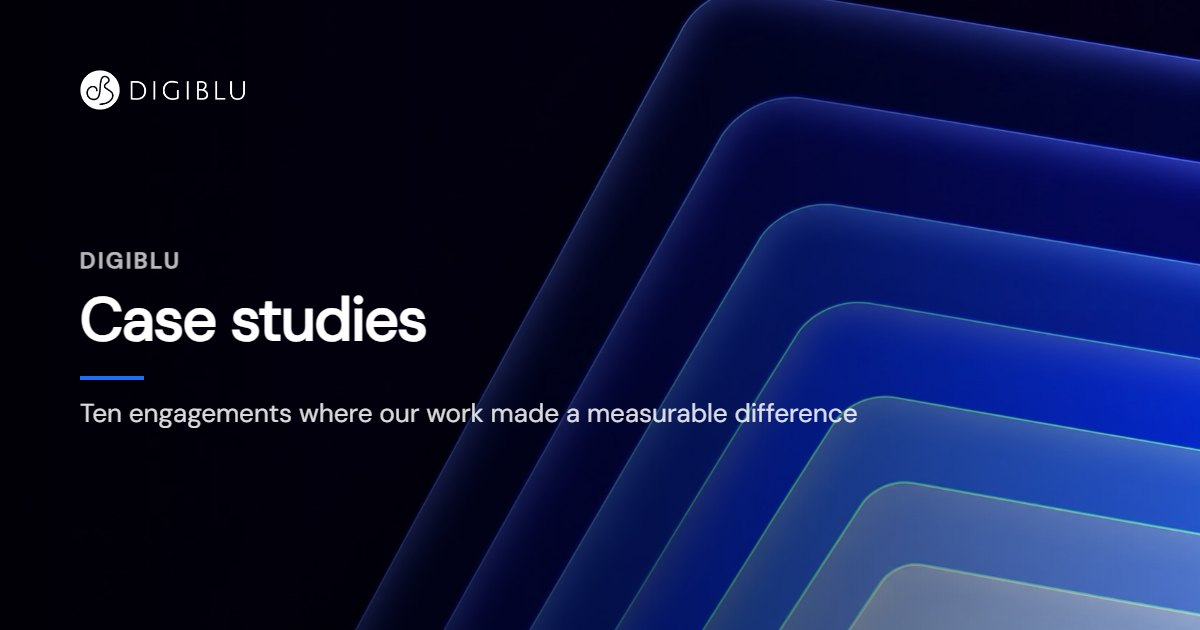
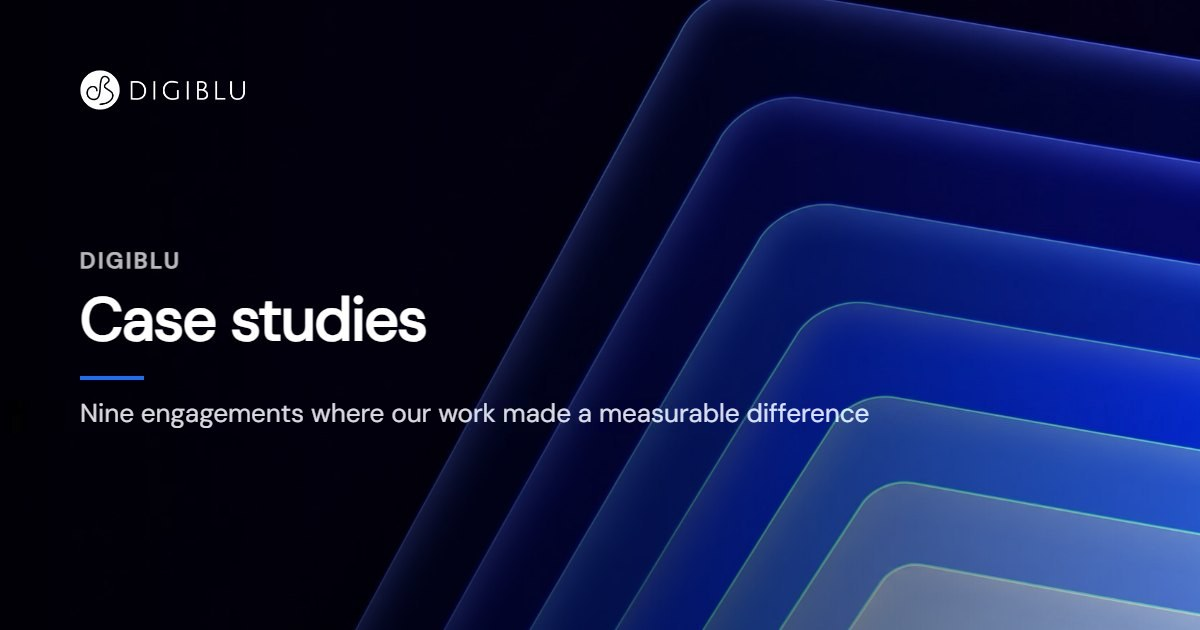
Remove the quote-processing case study; AssuranceSD featured third again
The client has not approved the case study, so its markdown, photograph
and share card are deleted (they stay in git history if it is approved).
AssuranceSD takes back the third home-page slot with the card it had before
10 Sep 2026. The case studies page's description and share card say "Nine",
and the description's sector list no longer includes manufacturing, which
only that case study covered. The share card was patched in place: the old
subtitle's background rebuilt from the per-case-study cards (same artwork),
the new line drawn in DM Sans 26px at the original's position and colour.

Tests: nine case studies, AssuranceSD third and featured, the removed key
absent; page tests pass over nine case-study pages.

Changed region(s): [[0.0617, 0.6333, 0.74, 0.6937]]

diff --git a/components/sections/CaseStudies.tsx b/components/sections/CaseStudies.tsx
@@ -14,7 +14,7 @@ export default function CaseStudies() {
           <h2>Where our work<br />has made a difference</h2>
 
           {/* Real client engagements, sourced from digiblu.com/case-studies. The
-               three shown here are the featured set; the full ten are on
+               three shown here are the featured set; the full list is on
                /case-studies, which "View all" links to. */}
 
           <div className="case-list">
@@ -63,18 +63,18 @@ export default function CaseStudies() {
             <article className="case">
               <div className="case-grid">
                 <div>
-                <span className="case-client">Mobility equipment manufacturer</span>
-                <h3 className="case-headline">Automating supplier quote processing with Generative AI</h3>
+                <span className="case-client">AssuranceSD</span>
+                <h3 className="case-headline">Transforming FMS services with digital onboarding</h3>
                 </div>
                 <div>
-                  <p className="case-body">Supplier quotations arrive in every format, and each one had to be read, matched against the original specification and resolved by hand. We combined Generative AI, document processing and workflow automation so routine cases resolve themselves within defined business rules, with exceptions routed to a purpose-built reconciliation app for human review.</p>
+                  <p className="case-body">Applying for government funding ran on paper, and it was hardest on the elderly and disabled applicants it exists to help. We built a secure web application with Jotform forms and e-signatures, so applications are completed and signed online with fewer errors and faster approvals.</p>
                   <div className="case-tags">
-                    <span className="case-tag">AI-powered quote processing</span>
-                    <span className="case-tag">End-to-end automation</span>
-                    <span className="case-tag">Human-in-the-loop exceptions</span>
+                    <span className="case-tag">Paper-free applications</span>
+                    <span className="case-tag">Fewer errors and resubmissions</span>
+                    <span className="case-tag">Multi-state US coverage</span>
                   </div>
-                  <a href="/case-studies/quote-processing" className="case-read-more">
-                    Read more<span className="sr-only">: automating supplier quote processing with Generative AI</span>
+                  <a href="/case-studies/assurancesd" className="case-read-more">
+                    Read more<span className="sr-only">: transforming FMS services with digital onboarding</span>
                     <svg viewBox="0 0 24 24" fill="none" aria-hidden="true" xmlns="http://www.w3.org/2000/svg"><path d="M5 12h14m0 0-6-6m6 6-6 6" stroke="currentColor" strokeWidth="2" strokeLinecap="round" strokeLinejoin="round"/></svg>
                   </a>
                 </div>

diff --git a/app/case-studies/page.tsx b/app/case-studies/page.tsx
@@ -13,7 +13,7 @@ import PageBehaviours from "@/components/PageBehaviours";
 // removed on 18 Sep 2026.
 const TITLE = "Case Studies | DigiBlu";
 const DESCRIPTION =
-  "Ten client engagements where DigiBlu's work made a measurable difference, across energy, healthcare, travel, manufacturing, finance and the public sector.";
+  "Nine client engagements where DigiBlu's work made a measurable difference, across energy, healthcare, travel, education, finance and the public sector.";
 const URL = `${SITE_ORIGIN}/case-studies`;
 const OG = "/assets/og/case-studies.jpg";
 

diff --git a/docs/notes/sections.md b/docs/notes/sections.md
@@ -121,6 +121,7 @@ Every section of the home page, top to bottom, and the dialogs: how each behaves
    - **On a phone the close X is a header row, not a float.** At or below 640px the panel is a column and the reading pane is its own scroller, so the absolutely positioned X (a child of the panel, not the pane) stayed put while the photograph, eyebrow pill and stat boxes scrolled under it (reported 2 Sep 2026). It is now in flow above the pane, right-aligned, the panel is `overflow: hidden` and the pane scrolls beneath it - the contact modal's pattern, including the `min-height: 0` without which the pane grows the panel instead of scrolling. Applied to the service dialog too, which shares the structure. Above 640px the pane's 52px gutter keeps the X clear, so desktop is untouched.
    - **Reader layout, not index + detail.** On request ("all articles should be left side of this screen and read full article on the right, apply same logic throughout i.e. case studies") the separate index popup (`#caseIndexModal`) was removed and the detail dialog became a two-pane reader: `.reader-side` (330px, every engagement as a `.case-index-item` row, the one being read on brand blue via `.is-active` + `aria-current`) beside the existing `.case-modal-body`. `.modal-panel` was already a flex row, so the two columns each scroll independently inside its max-height; `.modal-panel.reader-panel` raises the max-width to 1140px (doubled selector because `.case-modal-panel`/`.service-panel` set their own at equal specificity, later in the file). Picking a row calls `select(key)` - populate in place, reset the reading pane's scroll, and nudge the sidebar only if the row is out of view, so clicking a row near the bottom does not yank the list to the top. **Below 900px** the sidebar is `display: none` and the footer's "All case studies" button (`.case-back-btn.reader-toggle`, hidden on desktop) adds `.show-list` to the panel, which swaps the reading pane out for the list; picking a row swaps back. "View all" opens the reader on the last-read entry (first, before any) with `.show-list` set, so on mobile it lands on the list. Verified at 1829px and 375px in both directions, plus ctrl-click still navigating.
    - **A tenth case study, "Building a strategic partnership for AI transformation" for Safari Destinations, was added on 10 Sep 2026** (key `safari-destinations`, sector Travel & Tourism, service Artificial Intelligence) from copy DigiBlu supplied, **taking AssuranceSD's featured slot** (featured 2; AssuranceSD stays in the reader at order 3) and **second in the reader** (order 2), both on request. Same reformatting as the ninth: one paragraph per section condensed from the supplied multi-paragraph Background / Problem / Solution / Outcome, the title recast as a gerund ("A Strategic Partnership for AI Transformation" in the brief), the three "big stats" phrases split into pill value + label, three card tags. **The quote is an explicit placeholder** - text "[Client quote to follow]", cite "[Client name], [Client role] - Safari Destinations" - because the brief marks it `[INSERT CLIENT QUOTE]`; it renders in the reader and on the page as written until DigiBlu supplies it. The client is named (it is in the client logo strip too). **Photograph: Pexels 36048580**, an acacia tree on the Serengeti plains under a blue sky, viewed on its Pexels page for signage before it was proposed, chosen by DigiBlu over a herd of elephants (9185426), fetched through the same `?w=1600&h=600&fit=crop` parameters as the rest (146KB).
+   - **The quote-processing case study was removed on 23 Sep 2026**, as it had not been approved by the client: its markdown, photograph and share card were deleted, and AssuranceSD went back into featured slot 3 with the card it had before 10 Sep 2026. The case studies page's description and share card say "Nine" now; the home page's count comes from the content. The entry below is the history.
    - **A ninth case study, "Automating supplier quote processing with Generative AI", was added on 10 Sep 2026** (key `quote-processing`, client "Mobility equipment manufacturer", sector Healthcare, service Artificial Intelligence - **an earlier label lasted an hour and was changed because its wording hinted at the client's name; the user asked for "mobility manufacturer or something like that". Healthcare rather than Manufacturing as the sector so the eyebrow does not read "manufacturer · manufacturing"**) from copy DigiBlu supplied, **and it took Cedar Creek Church's featured slot** (featured 3; Cedar Creek stays in the reader at order 4, the new one at order 3). The client is **anonymised at DigiBlu's request** the way the healthcare workforce provider and the US city agency are - the key and the URL carry no client name, and **nothing in this repository names it, because the repository is public** (the real name was scrubbed from these notes on 21 Sep 2026; do not add it back, here or in a commit message). Reformatted to the set's shape: one paragraph per section, condensed from the supplied multi-paragraph sections keeping DigiBlu's facts and phrasing (the Cedar Creek precedent), the supplied title "AI-Powered Quote Processing Automation" recast as a gerund sentence-case headline like the other eight, the three supplied "big stats" (phrases, not numbers) split into pill value + label ("AI-powered / Quote processing", "End-to-end / Quote receipt to resolution", "Human-in-the-loop / Exception management"), and three card tags on the home page. **The quote is the "e.g." placeholder from the brief**, attributed as supplied to Tim Sunley, Client Engagement Lead, DigiBlu, and marked `[INSERT QUOTE]` in the brief - it stays until DigiBlu confirms or replaces it. **Photograph: Pexels 36006588** (the front of a large modern warehouse with closed doors, grey cladding, no lettering), chosen by DigiBlu on 10 Sep 2026 after asking for "a manufacturing unit or building", fetched through the same `?w=1600&h=600&fit=crop` parameters as the other eight (66KB) straight into `public/assets/case-studies/`. **The first choice, Pexels 4061583, was downloaded and dropped the same hour**: its alt text said "low rise industrial building with blue wall" and the building turned out to carry a real fabricator's sign across its front - the alt text is not a branding check, so **view a candidate before proposing it** (the Pexels photo page in the Browser pane shows it without downloading anything). The share card exists (`public/assets/og/case-studies/quote-processing.jpg`, built as the others). The overview keeps the brief's own words, "a large national manufacturer and provider of mobility solutions".
    - **First National Bank was replaced by Cedar Creek Church on 8 Sep 2026** (key `cedar-creek`, Faith & Community, Digital Solutions: six Jotform workflows in three weeks), on request, from copy DigiBlu supplied. It went in verbatim first (four multi-paragraph sections) and was **condensed the same day on request** ("seems long in comparison") to one paragraph per section like the other seven, keeping DigiBlu's own facts and phrasing; the full text is in git history. The quote is a contiguous excerpt - the first three sentences of the supplied quote - not a paraphrase. `addSection()` and the generator still split a body on a literal `\n` into one `<p>` each, added for the verbatim version; nothing uses it today, but a future multi-paragraph entry can. The FNB static page, photo and share card were deleted; the sidebar still counts eight.
    - **The stat pills have no ring since 10 Sep 2026** ("remove the outline, apply throughout the case studies section"): the faint white 1px border, a rim for the flat-blue version, read as an outline on the sweep. `.case-stat` is its fill alone, in the reader and on every case-study page. The home page's `.case-tag` hairline chips and the "View all" ghost button keep their borders - they are outlines by design, not rims - unless asked.

diff --git a/CLAUDE.md b/CLAUDE.md
@@ -31,7 +31,7 @@ Browser pane launch configs (`.claude/launch.json`): `digiblu-next` (`next dev`,
 |---|---|
 | `app/` | Routes: home, `/services`, `/team`, `/accreditations`, `/case-studies` and `/case-studies/[key]`, `/legal/[slug]`, `/contact`, `/api/contact` (the one dynamic route), `not-found`, `sitemap`, `robots`. `app/globals.css` is the whole stylesheet. |
 | `components/` | Server components for the markup (`sections/`, footer, page chrome, the contact form's body); `behaviours/*.jsx` are the ported scripts, mounted by `HomeBehaviours.tsx` and `PageBehaviours.tsx`. |
-| `content/` | **The source of truth for copy**: `case-studies/` (10), `services/` (6), `legal/` (6), `team/` (8), `accreditations/` (6), `lattice.json` (the About figure). |
+| `content/` | **The source of truth for copy**: `case-studies/` (9), `services/` (6), `legal/` (6), `team/` (8), `accreditations/` (6), `lattice.json` (the About figure). |
 | `lib/` | `site.ts` (origin), `content.ts` (typed loaders), `contact/` (validate, Turnstile, send), `consent/`, `client/` (`once.ts`, the About pin). |
 | `public/assets/` | Everything the pages reference. Edit and add files here directly. |
 | `source/` | Not served: the supplied team photographs the headshots were made from, and `hero.jpg` / `footer-bg.jpg`, the rasters the hero and case-study art were traced from (the share cards were built from `hero.jpg`). |
@@ -54,7 +54,7 @@ Browser pane launch configs (`.claude/launch.json`): `digiblu-next` (`next dev`,
 - No fabricated people, quotes, figures or clients. Real, published names are fine.
 - Real links only.
 - Third-party article content is condensed, never copied. Legal text is verbatim and complete; a gap in DigiBlu's own source is noted, never filled. Sections 12 and 13 of the Privacy and Cookies Policy are ours (approved by DigiBlu): keep them true.
-- Anonymised clients stay anonymous: the healthcare workforce provider, the US city agency and the mobility equipment manufacturer. **The GitHub repository is public**, so this covers every file, notes and commit messages included: never write their real names, or anything that links one to its case study. (The home page's client logo strip may show clients by name; it never ties one to a case study.)
+- Anonymised clients stay anonymous: the healthcare workforce provider and the US city agency (and the mobility equipment manufacturer, whose case study was removed on 23 Sep 2026; if it returns, it stays anonymised). **The GitHub repository is public**, so this covers every file, notes and commit messages included: never write their real names, or anything that links one to its case study. (The home page's client logo strip may show clients by name; it never ties one to a case study.)
 - Photography must be licensed for commercial use without attribution, and must carry no other organisation's branding. Look at a candidate before proposing it; alt text is not a branding check.
 
 **Design** (`BRAND.md` has the system)
@@ -71,14 +71,14 @@ Browser pane launch configs (`.claude/launch.json`): `digiblu-next` (`next dev`,
 - Assert the absence of broken references rather than counting successes.
 - Baseline to keep: no contrast failures in either theme, no horizontal overflow from 320 to 1895px, tap targets at least 24px, every control usable from the keyboard.
 
-## Open items (21 Sep 2026)
+## Open items (23 Sep 2026)
 
 - The Privacy and Cookies Policy names Microsoft (Azure Communication Services) as the service that emails enquiries to DigiBlu: on `dev` in section 12, dated 18 September 2026, awaiting DigiBlu's approval with the rest of that paragraph (the Turnstile part is unapproved too), and so is the Google Analytics line on counting enquiries. Section 15 (DigiBlu's text) still says the websites are hosted in the UK, which is no longer accurate on Cloudflare Workers: DigiBlu's to change.
-- The quote-processing case study's quote is the brief's example, attributed to Tim Sunley: unconfirmed.
+- The quote-processing case study was removed on 23 Sep 2026 (not approved by the client) and AssuranceSD is featured third again. Its markdown, photo and share card are in git history if it is approved later.
 - For DigiBlu to decide (21 Sep 2026 review): two published quote credits differ from the team page (healthcare: "Dave Van der Westhuizen, Lead Consultant"; Old Mutual: "Jonathan Hinder, COO"); Special Olympics' stat reads "17,500" where the text says "more than 17,500"; "Northwest University" may officially be North-West University; the Carbon Reduction Plan (their text) gives net zero by 2050 and by the end of 2030, and 33.71 against 33.6 tCO2e.
-- For Radu: where the ACS resource keeps its data (for the policy); `waitUntil` stops 30s after the response, so a slow send's outcome can go unlogged; whether to pin pnpm with a `packageManager` field (Workers Builds picks its own version). `react-server-dom-webpack` was pinned to 19.2.8 on 21 Sep 2026 to match React (it had resolved to 19.3.0, which requires React 19.3).
+- For Radu: `waitUntil` stops 30s after the response, so a slow send's outcome can go unlogged; whether to pin pnpm with a `packageManager` field (Workers Builds picks its own version); he wants a failed send's contact details in the logs so someone can follow up, which the current logging does not capture (tested 21 Sep 2026) - his change, and the privacy policy needs a line when he makes it. ACS stores nothing (Radu, 21 Sep 2026: a pass-through gateway in DigiBlu's Azure tenant), so the policy needs no data-location line. `react-server-dom-webpack` was pinned to 19.2.8 on 21 Sep 2026 to match React (it had resolved to 19.3.0, which requires React 19.3).
 - The anonymised clients' real names are in the repository's history (removed from the files on 21 Sep 2026); making the repository private, or rewriting its history, is DigiBlu's call.
-- `dev` is ahead of `main`: the Safari Destinations correction and quote, contact-form spacing, pages instead of dialogs, the enquiry event, the standalone pages' nav and scroll-to-top, the compact cookie banner, the 21 Sep 2026 review fixes, and the policy lines awaiting approval. Release pending, then the DNS switch.
+- Released to `main` as v2.5.0 on 23 Sep 2026 (everything since v2.4.0: pages instead of dialogs, the Safari Destinations case study, the enquiry event, the page chrome and cookie banner, the 21 Sep 2026 review fixes, the policy lines above, and the quote-processing case study's removal). Next: the DNS switch with Radu, which DigiBlu gave the go-ahead for on 23 Sep 2026.
 - David's and Karen's headshots are old 560px crops; re-source them as cut-outs.
 - The generators for the About figure, the headshots and the share cards were one-off scripts in a session scratchpad and are not in the repo.
 

diff --git a/docs/parity-checklist.md b/docs/parity-checklist.md
@@ -31,7 +31,7 @@ For DigiBlu's sign-off before a release (fast-forwarding `main` to `dev`) and ag
 - [ ] Hero: "Applied AI, real ROI" on one line on desktop, breaking only at the comma on a phone; the framed artwork behind the nav, with lights travelling along its ridges; the paragraph and the Get in touch button at the bottom.
 - [ ] Accreditations: six certifications scroll in a single continuous line, pause on hover, and each opens its entry on the accreditations page.
 - [ ] Services: six blue cards numbered 01 to 06 animate in as the section arrives; each Learn more opens that service on the services page.
-- [ ] Case studies: three cards - SSE / OVO, Safari Destinations, and the supplier quote-processing study for the mobility equipment manufacturer - with headlines on two lines and no full stops. Read more opens each one's page; View all case studies opens the case studies page.
+- [ ] Case studies: three cards - SSE / OVO, Safari Destinations and AssuranceSD - with headlines on two lines and no full stops. Read more opens each one's page; View all case studies opens the case studies page.
 - [ ] Clients: fourteen logos scroll continuously as single-colour marks, muted at rest and full on hover, with no jump at the seam.
 - [ ] Who we are: two paragraphs light up word by word as you scroll, beside the dot-lattice figure whose "db" fills with the brand gradient mid-screen; on desktop the dots part around the cursor. Our values: all five open on desktop (3 + 2), revealed one after another on a phone.
 - [ ] Meet the leadership team: eight people. On desktop the open card shows a colour photo in a white circle with name, role and bio, and the others grey circles; clicking a closed slice opens it, clicking the open one goes to that person on the team page. On a phone: a list of eight rows, and tapping one goes to that person on the team page.
@@ -39,8 +39,8 @@ For DigiBlu's sign-off before a release (fast-forwarding `main` to `dev`) and ag
 ## The other pages
 
 - [ ] Services page: all six services in full, numbered 01 to 06, each with Discuss this service going to the contact page. An address such as `/services#discovery` lands on that service just below the nav.
-- [ ] Case studies page: all ten case studies, each linking to its own page.
-- [ ] Each of the ten case-study pages: the photograph in natural colour, three blue stat pills, Overview / The problem / What we did / Outcome, the quote, and a Back to home link.
+- [ ] Case studies page: all nine case studies, each linking to its own page.
+- [ ] Each of the nine case-study pages: the photograph in natural colour, three blue stat pills, Overview / The problem / What we did / Outcome, the quote, and a Back to home link.
 - [ ] Team page: all eight bios; each person opened from the home page's strip lands on their own bio.
 - [ ] Accreditations page: the six badges with their descriptions; the G-Cloud badge sits on a dark plate in both themes.
 - [ ] The six legal pages (Terms of Use, Privacy and Cookies Policy, Modern Slavery Policy, Carbon Reduction Plan, Armed Forces Covenant, Accessibility Statement): the full text, with "Last updated ..." ("Last signed ..." for the Covenant) under the title.

diff --git a/content/case-studies/assurancesd.md b/content/case-studies/assurancesd.md
@@ -5,7 +5,7 @@ sector: "Financial Management Services"
 service: "Digital Solutions"
 title: "Transforming FMS services with digital onboarding"
 order: 3
-featured: 0
+featured: 3
 photo: "/assets/case-studies/assurancesd.jpg"
 ogImage: "/assets/og/case-studies/assurancesd.jpg"
 stats:
